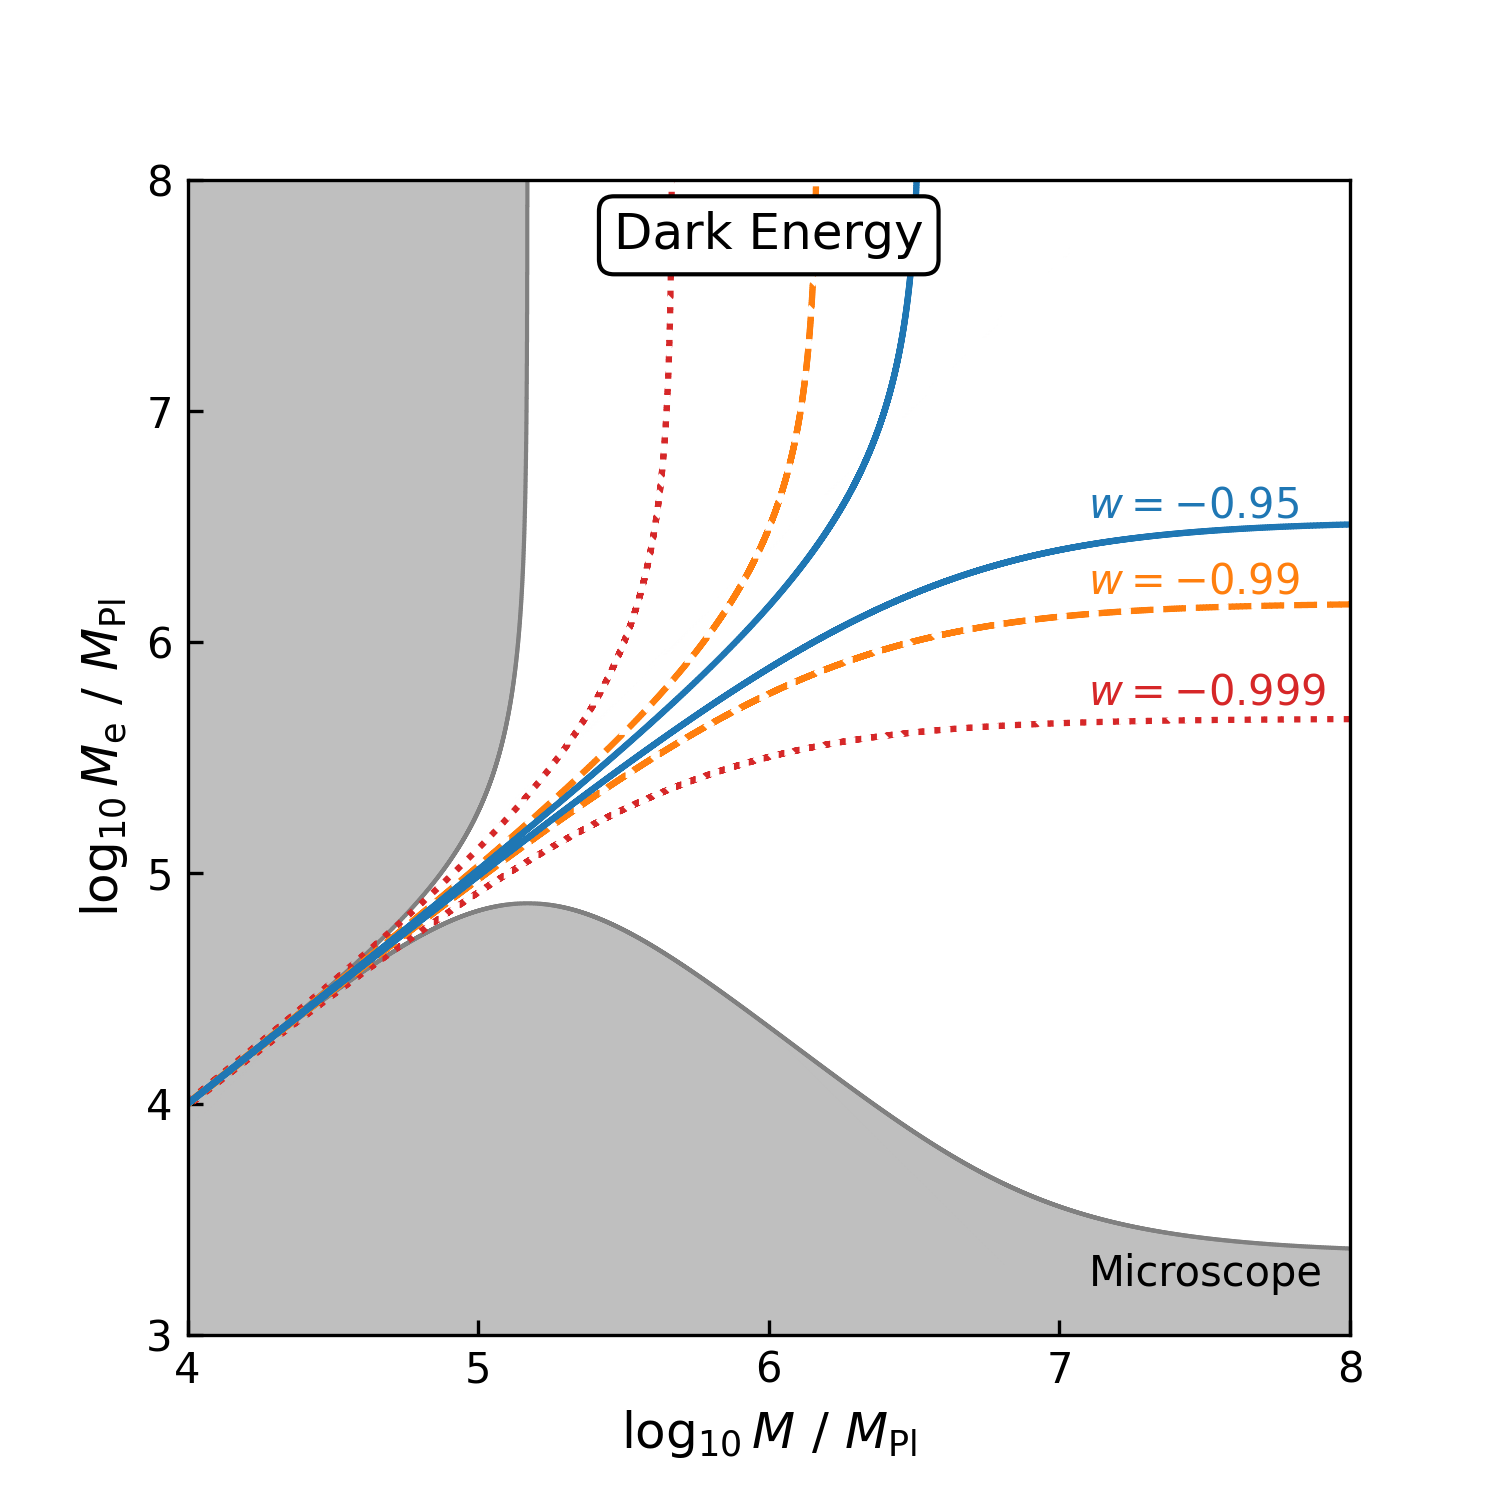
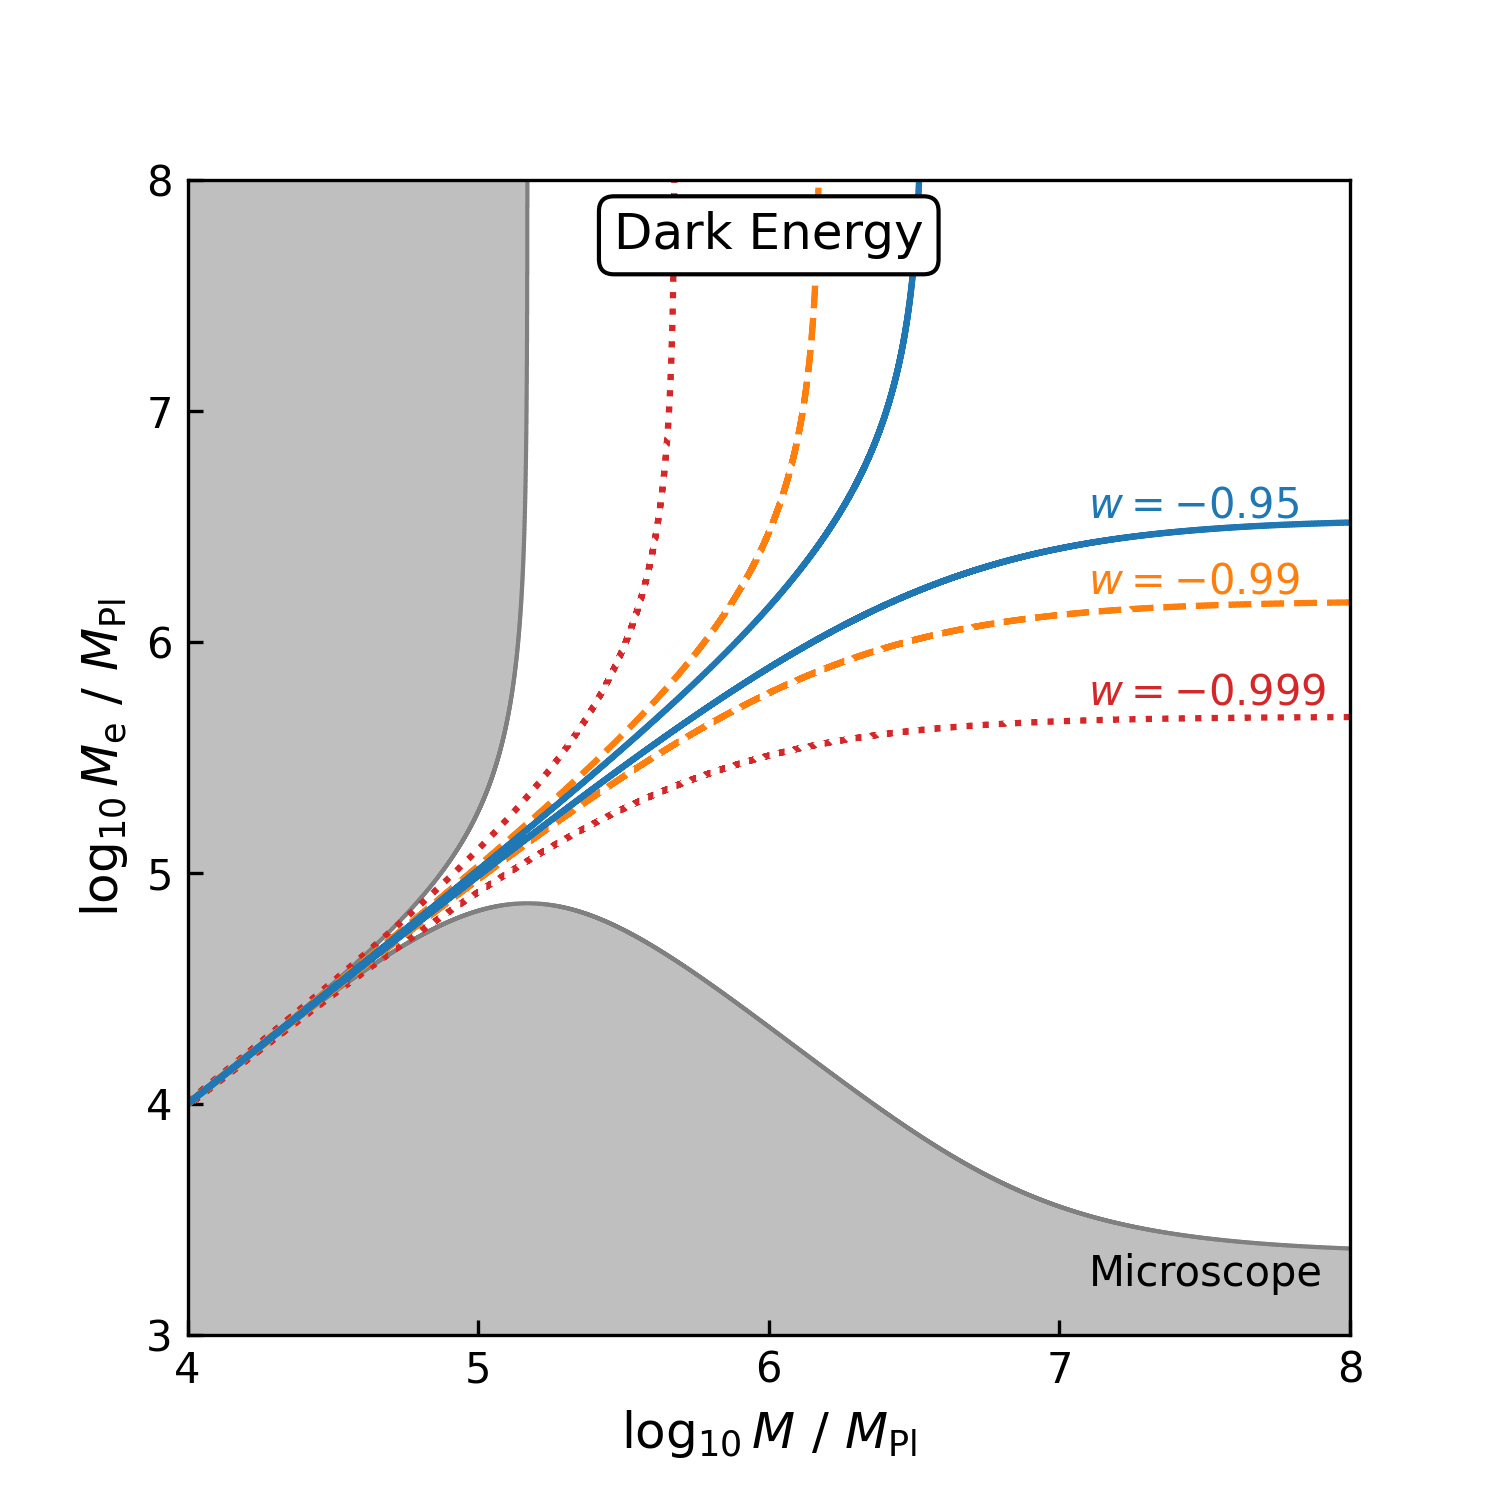
labels for generalized model plot

diff --git a/plot_MG.py b/plot_MG.py
@@ -180,17 +180,19 @@ Lambda = 1e-10
 dp = lambda m, r: dphi.generalized(m, r, M, Lambda, alphas, betas)
 Z = bounds.microscope(M, np.inf, dp)
 col = 'gray'
-plt.contour(X, Y, Z, levels=[0.5], colors=col, linestyles='dashed')
+#plt.contour(X, Y, Z, levels=[0.5], colors=col, linestyles='dashed')
 plt.contourf(X, Y, Z, levels=[0.5, 1], colors=col, alpha=0.3)
 
-plt.text(1.7, 0.665, "Microscope", rotation=12.5, fontsize = 8)
+plt.text(1.5, 0.64, "Microscope", rotation=12.5, fontsize = 8)
 
-## Generalized model
+## Lunar laser ranging
 
 Z = bounds.LLR_generalized(M, Lambda, alphas, betas)
 col = 'gray'
 #plt.contour(X, Y, Z, levels=[0.5], colors=col, linestyles='dashed')
 plt.contourf(X, Y, Z, levels=[0.5, 1], colors=col, alpha=0.3)
+
+plt.text(1.25, 0.55, "LLR", rotation=14, fontsize = 8)
 
 
 ## Clocks
@@ -236,4 +238,4 @@ plt.ylabel(r"$\alpha$", fontsize=12)
 
 plt.savefig("plots/MG_gen_alpha_vs_beta.png", dpi=po.dpi_setting)
 
-plt.show()
+#plt.show()

diff --git a/plot_options.py b/plot_options.py
@@ -14,7 +14,7 @@ import numpy as np
 # Around 1k looks ok and is fast.
 # Set this to a high value (~10k) for the final versions
 # of the plots.
-resolution = 1000
+resolution = 10000
 
 # Color scheme
 colorcycle = plt.rcParams['axes.prop_cycle'].by_key()['color']
